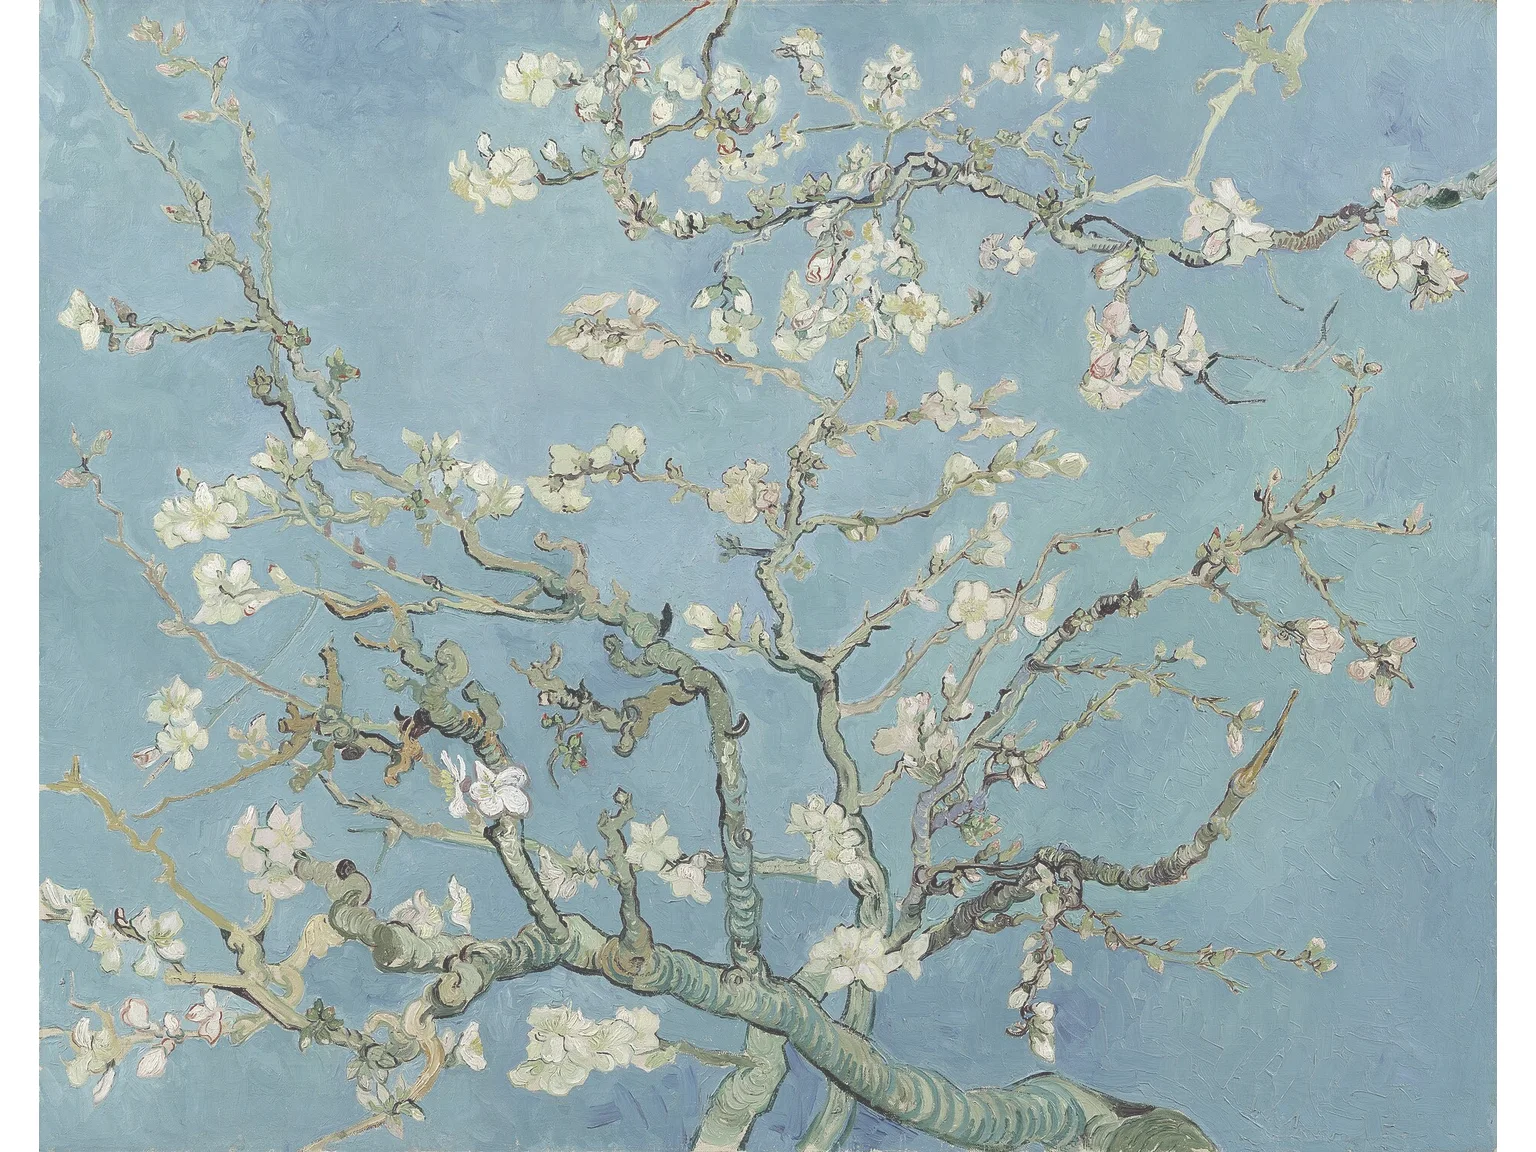
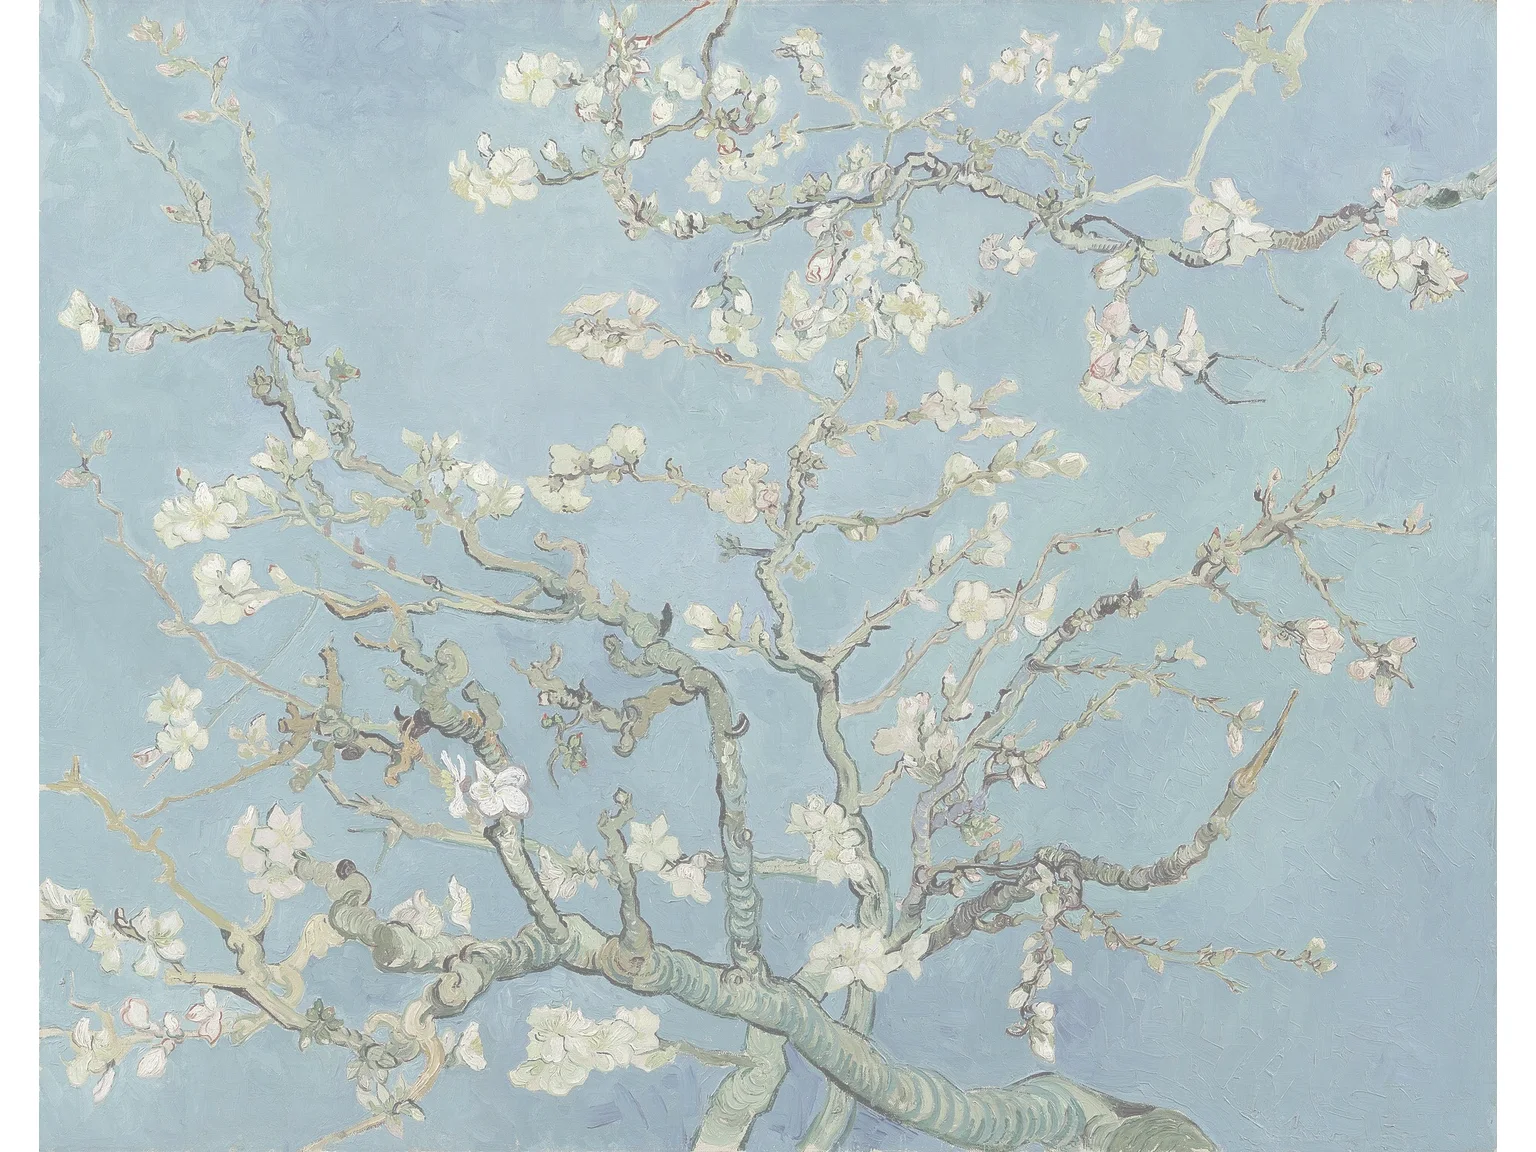
fix(masters): 밑그림 알파 상한 0.80→0.55 — 저대비 원작(인상 해돋이) 안 흐려지던 문제
인상,해돋이는 base_std 37.5로 낮아 std 목표(30)를 맞추려 알파가 0.80까지
올라가 원색이 80% 남아 밑그림이 진했다. 형태는 0.55에서도 다 읽혀(해·배·반영)
상한을 0.55로 낮춰 저대비 그림도 밑그림답게 유지. 다수 저대비작 0.55로 수렴.

diff --git a/scripts/gen-masters.py b/scripts/gen-masters.py
@@ -34,7 +34,10 @@ GUIDE_GRAY = 205
 # 2026-07-13 2차 실측: 22는 카드 썸네일·캔버스에서 여전히 옅다("너무 흐리지 않게")
 TARGET_STD_TRACE = 30.0  # 따라 그리기: 형태가 또렷하되 내 획이 위에 확실히 보여야
 TARGET_STD_QUARTER = 22.0  # 1/4 완성하기: 나머지 영역은 힌트 수준
-ALPHA_MIN, ALPHA_MAX = 0.30, 0.80
+# ⚠ ALPHA_MAX 상한(2026-07-21 인상,해돋이 실측): 저대비 원작(해돋이 base_std 37.5)은
+# std 목표를 맞추려 알파가 0.80까지 올라가 원색이 80% 남아 "안 흐린" 밑그림이 됐다.
+# 형태는 0.55에서도 다 읽히므로(해·배·반영 확인) 상한을 0.55로 낮춰 항상 밑그림답게 유지.
+ALPHA_MIN, ALPHA_MAX = 0.30, 0.55
 
 
 # (slug, 한국어 제목, 작가, 사망년, [위키미디어 파일명 후보…])
